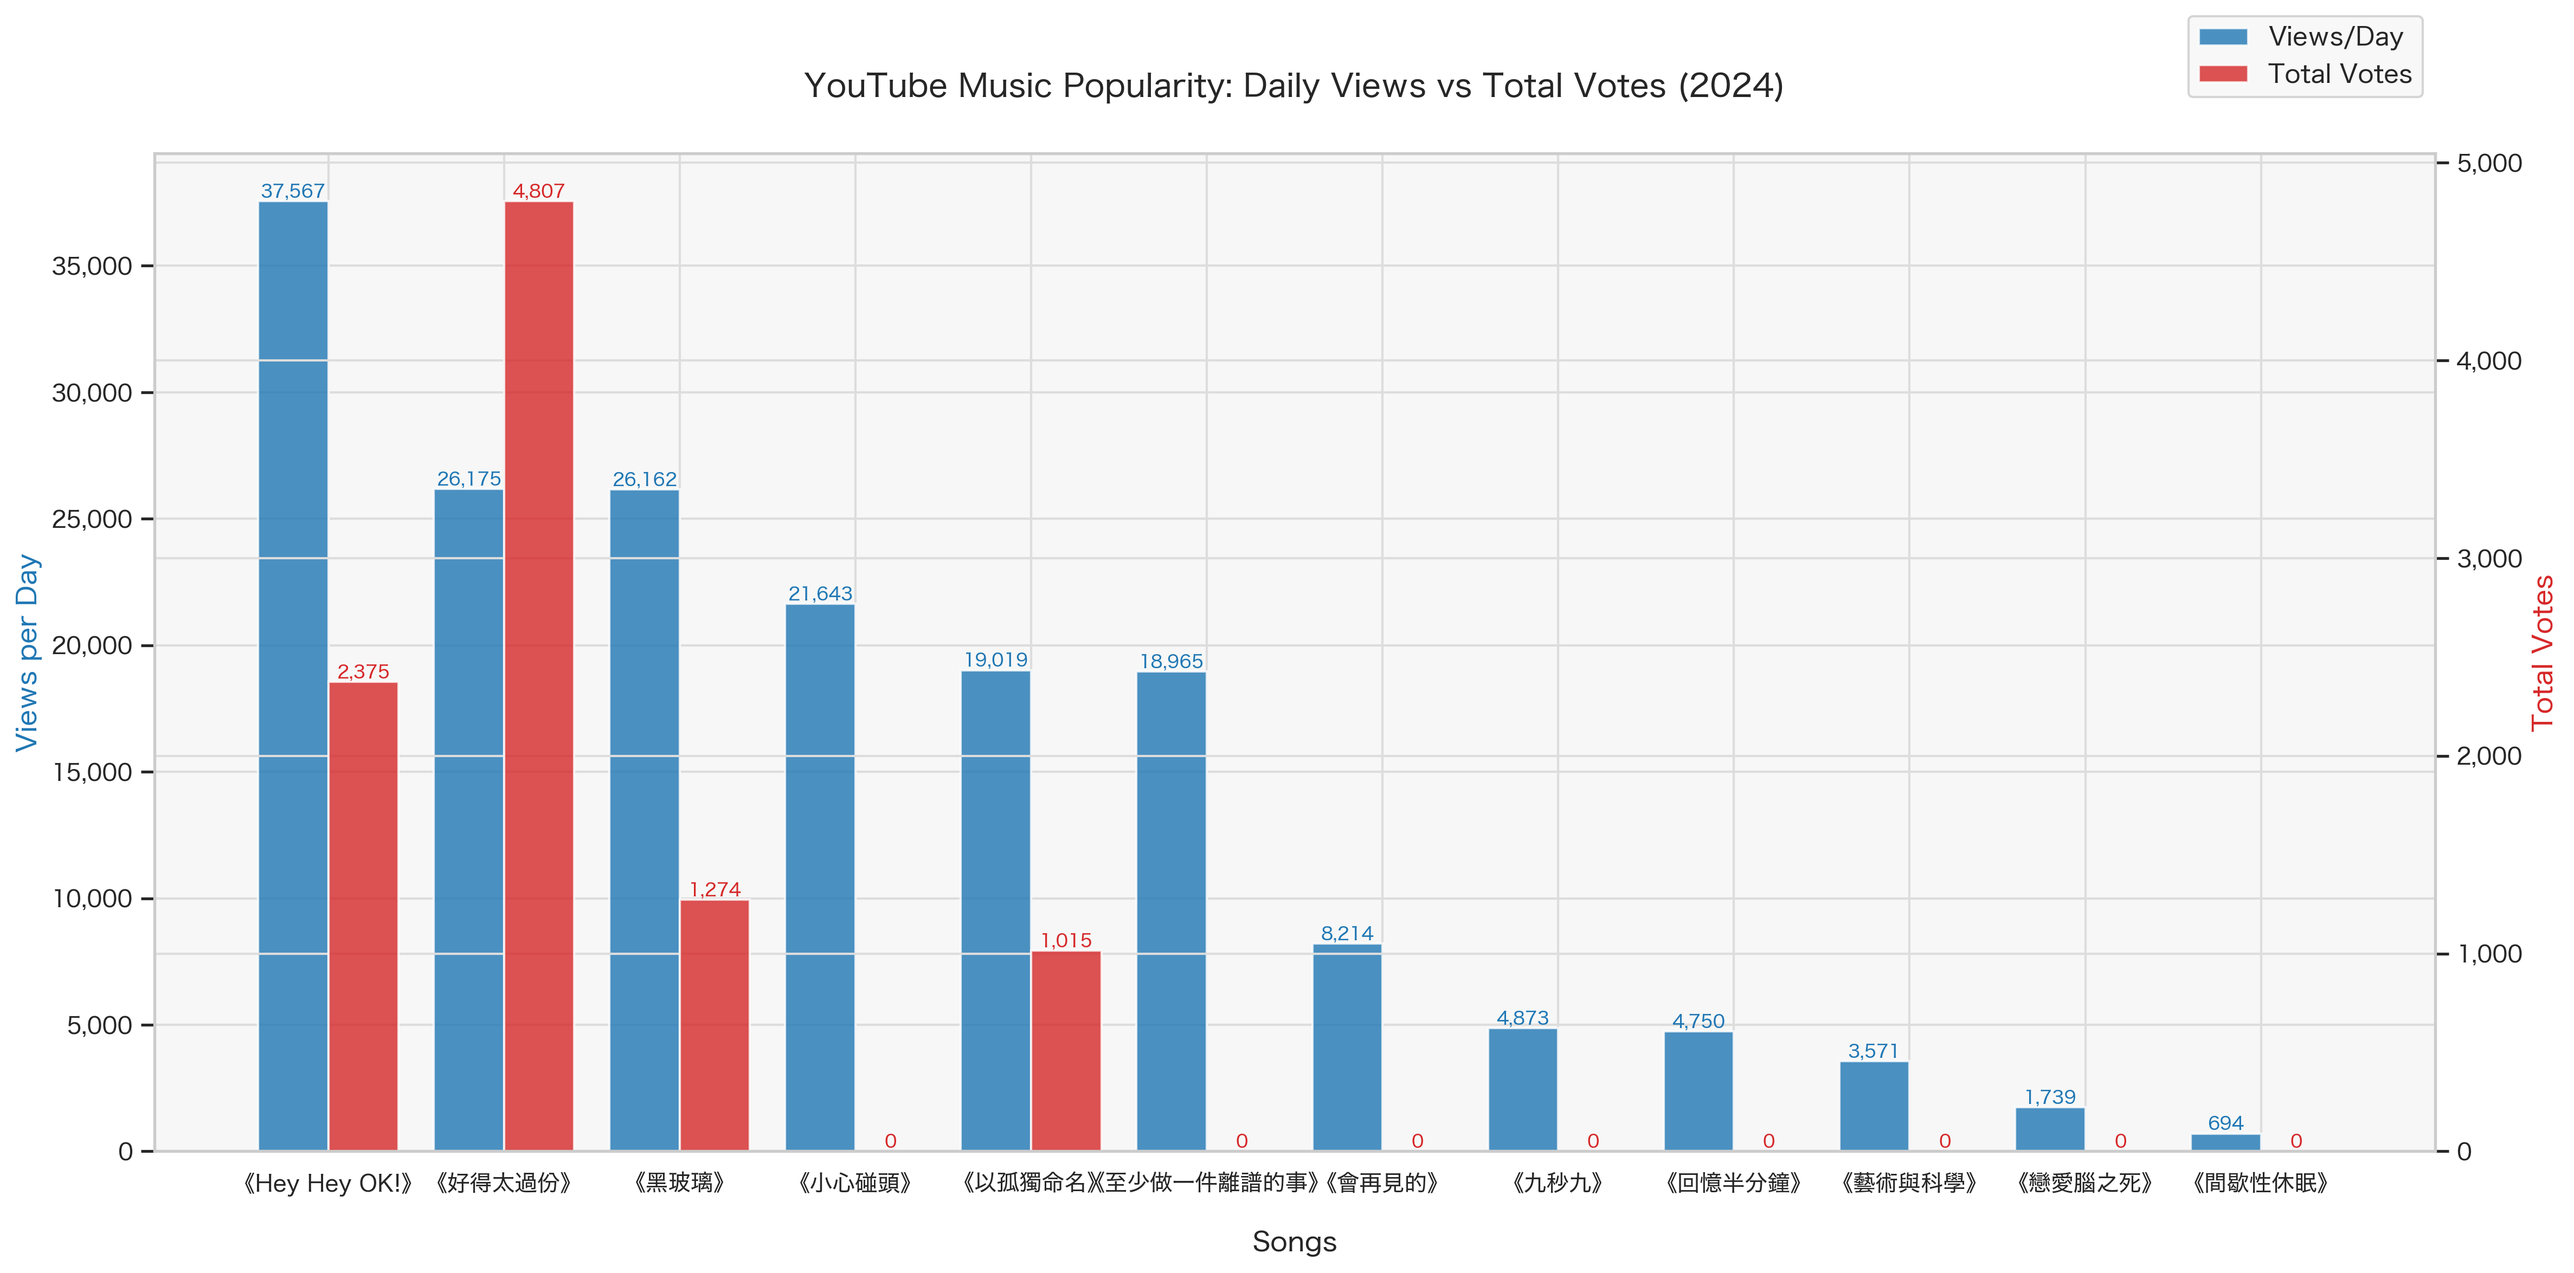
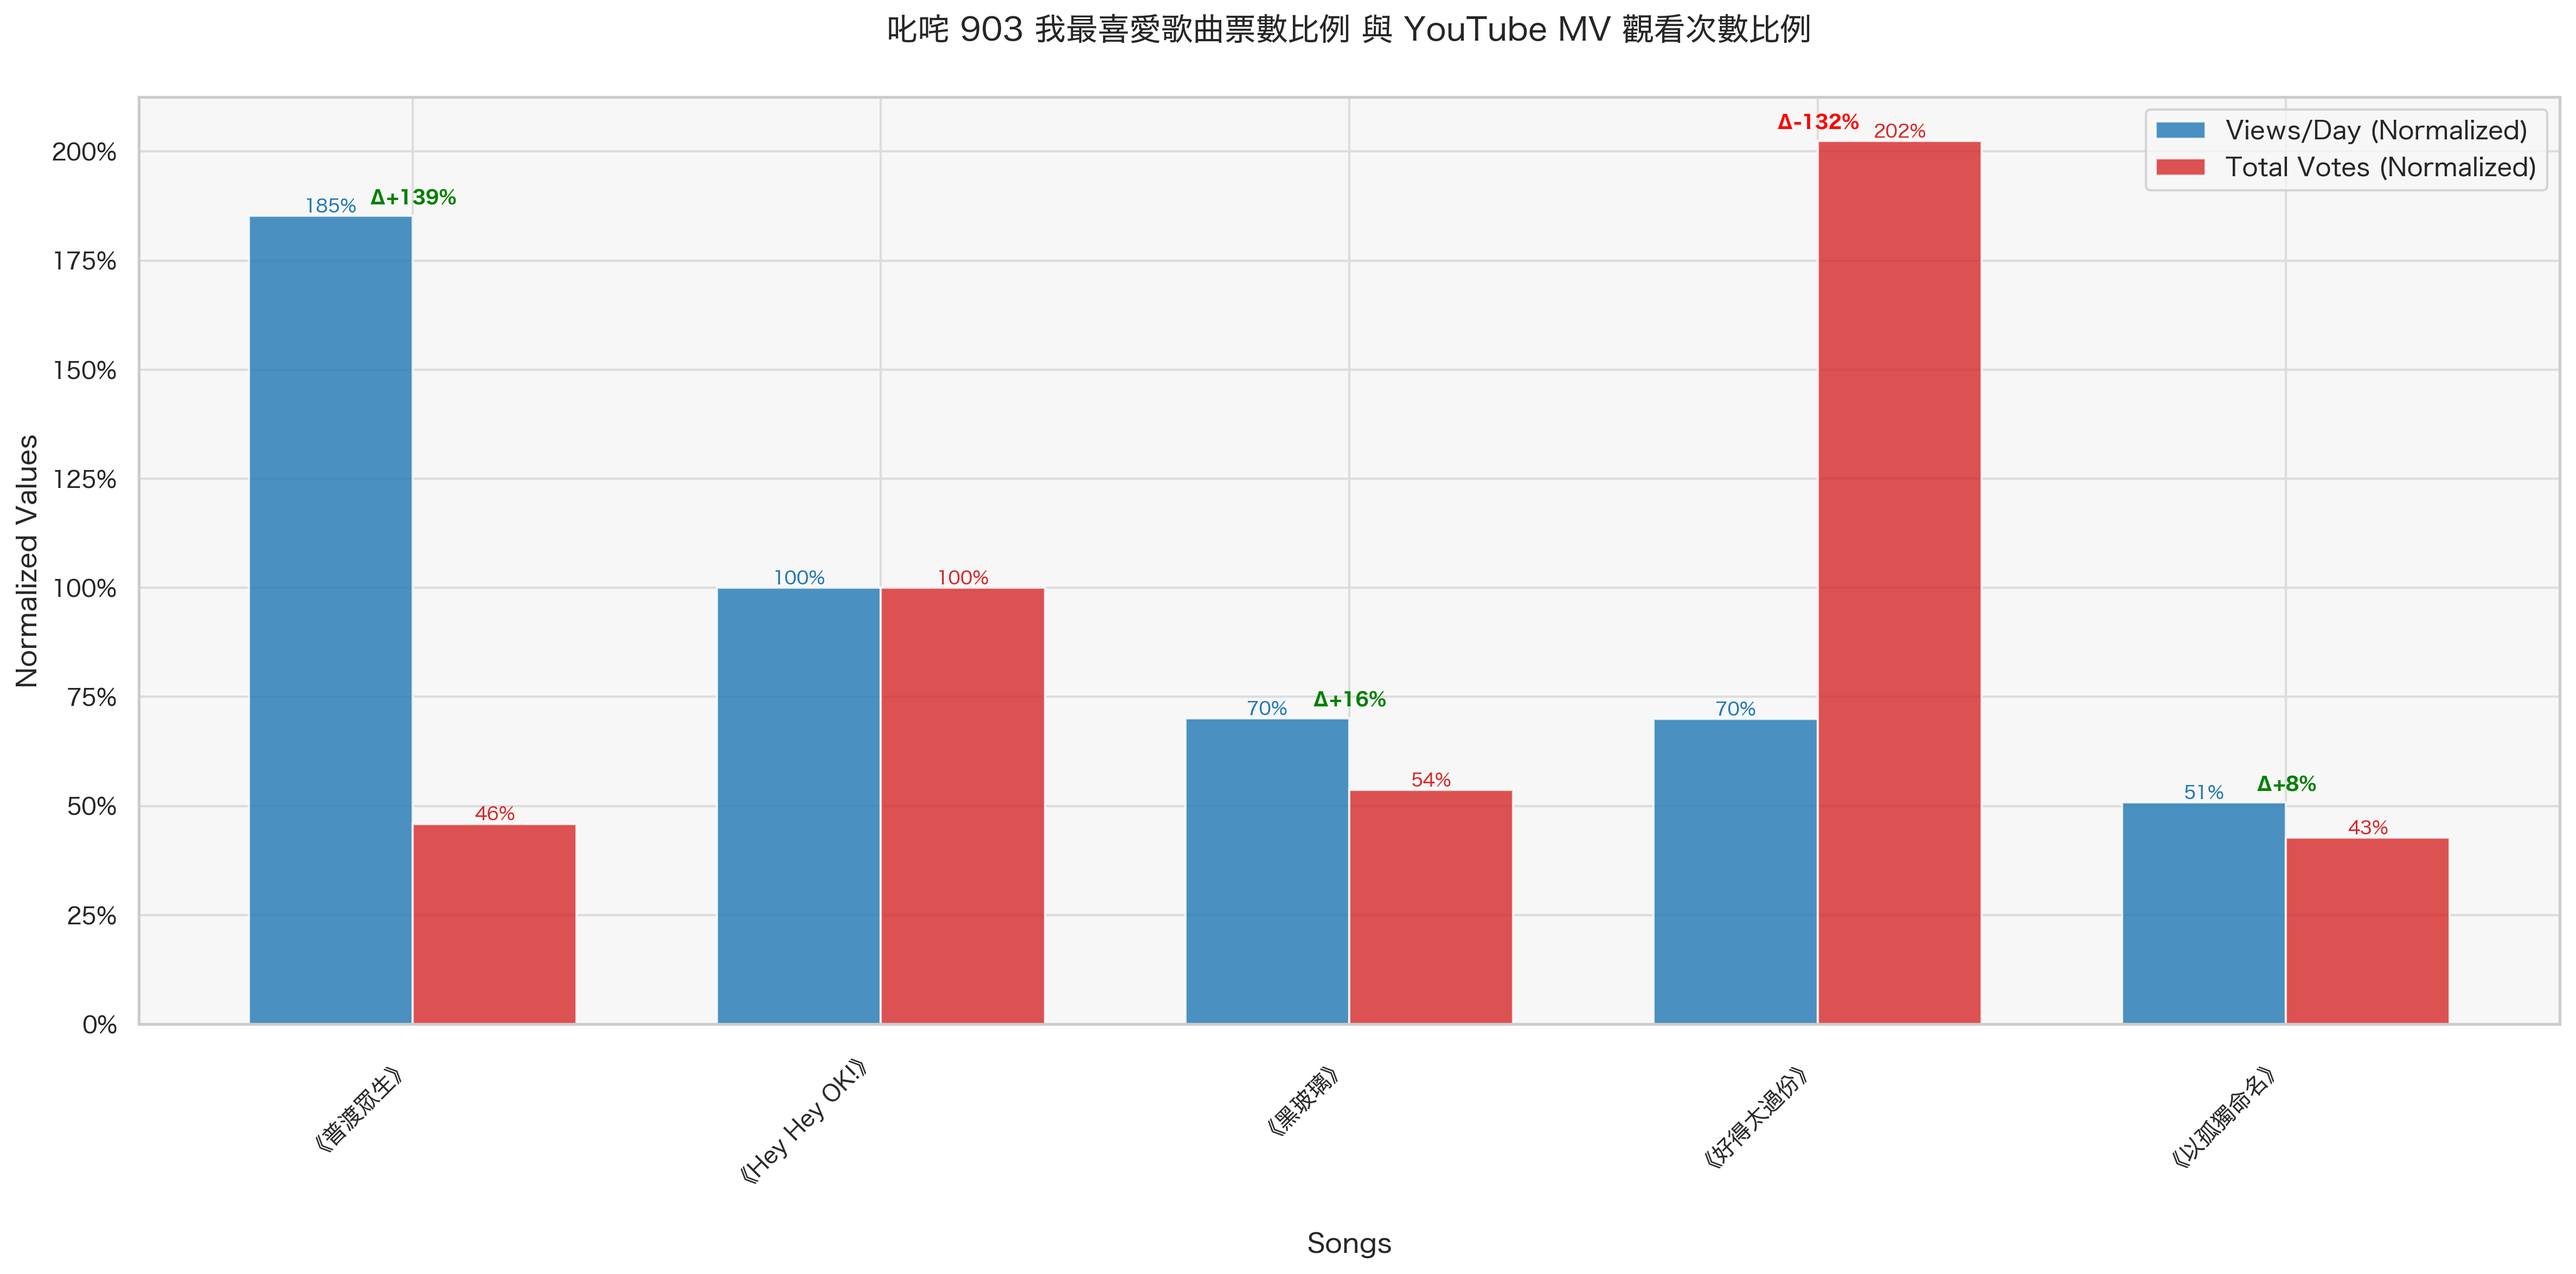
Update data.csv with new YouTube view counts and enhance plot.py for improved data visualization
- Updated `data.csv` to reflect the latest YouTube view counts for songs, including adjustments to total views and views per day.
- Enhanced `plot.py` to include data normalization, improved filtering for valid entries, and added logging for better traceability.
- Modified the plotting function to visualize normalized views and total votes, with additional annotations for differences in proportions.
- Updated the plot title to reflect the new context of the analysis.

diff --git a/plot.py b/plot.py
@@ -40,14 +40,45 @@ def validate_data(df: pd.DataFrame) -> pd.DataFrame:
     
     # Filter and clean data
     df = df[df['Year'] == 2024].copy()
-    df = df.dropna(subset=['view per day', 'Total'])
+    
+    # Only keep rows where both 'view per day' and 'Total' are non-null and greater than 0
+    df = df[
+        df['view per day'].notna() & 
+        df['Total'].notna() & 
+        (df['view per day'] > 0) & 
+        (df['Total'] > 0)
+    ]
+    
     df = df.sort_values('view per day', ascending=False)
+    
+    logger.info(f"Number of songs with complete data: {len(df)}")
+    logger.info("Songs included in analysis:")
+    logger.info(df['Title'].tolist())
+    
+    return df
+
+def normalize_data(df: pd.DataFrame) -> pd.DataFrame:
+    """Normalize the data to percentages relative to 'Hey Hey OK OK'."""
+    # Get reference values from 'Hey Hey OK OK'
+    reference_song = df[df['Title'] == '《Hey Hey OK!》'].iloc[0]
+    reference_views = reference_song['view per day']
+    reference_votes = reference_song['Total']
+    
+    logger.info(f"Reference views per day: {reference_views:,.0f}")
+    logger.info(f"Reference total votes: {reference_votes:,.0f}")
+    
+    # Normalize to percentages relative to the reference song
+    df['normalized_views'] = (df['view per day'] / reference_views) * 100
+    df['normalized_votes'] = (df['Total'] / reference_votes) * 100
+    
+    # Calculate difference between proportions
+    df['proportion_difference'] = df['normalized_views'] - df['normalized_votes']
     
     return df
 
 def create_dual_axis_plot(df: pd.DataFrame, output_path: Optional[str] = 'plot.png') -> None:
     """
-    Create an enhanced dual-axis plot comparing views per day and total votes.
+    Create a plot comparing normalized views per day and total votes.
     
     Args:
         df: DataFrame containing song data
@@ -56,63 +87,69 @@ def create_dual_axis_plot(df: pd.DataFrame, output_path: Optional[str] = 'plot.p
     try:
         # Validate and prepare data
         df = validate_data(df)
+        df = normalize_data(df)
         
-        # Create figure and axes
-        fig, ax1 = plt.subplots(figsize=(16, 8))
-        ax2 = ax1.twinx()
+        # Create figure
+        fig, ax = plt.subplots(figsize=(16, 8))
         
         # Set positions and width
         x = range(len(df))
-        width = 0.4
+        width = 0.35
         
-        # Plot views per day
-        views_bars = ax1.bar(
-            [i - width/2 for i in x], df['view per day'],
-            width, color=COLORS['views'], alpha=0.8, label='Views/Day'
+        # Plot normalized views per day and total votes
+        views_bars = ax.bar(
+            [i - width/2 for i in x], df['normalized_views'],
+            width, color=COLORS['views'], alpha=0.8, label='Views/Day (Normalized)'
         )
         
-        # Plot total votes
-        votes_bars = ax2.bar(
-            [i + width/2 for i in x], df['Total'],
-            width, color=COLORS['votes'], alpha=0.8, label='Total Votes'
+        votes_bars = ax.bar(
+            [i + width/2 for i in x], df['normalized_votes'],
+            width, color=COLORS['votes'], alpha=0.8, label='Total Votes (Normalized)'
         )
         
-        # Configure axes
-        ax1.set_xlabel('Songs', fontsize=12, labelpad=15)
-        ax1.set_ylabel('Views per Day', color=COLORS['views'], fontsize=12)
-        ax2.set_ylabel('Total Votes', color=COLORS['votes'], fontsize=12)
+        # Configure axis
+        ax.set_xlabel('Songs', fontsize=12, labelpad=15)
+        ax.set_ylabel('Normalized Values', fontsize=12)
         
-        # Format y-axes
-        for ax in [ax1, ax2]:
-            ax.yaxis.set_major_formatter(plt.FuncFormatter(lambda x, _: f'{x:,.0f}'))
-            ax.tick_params(axis='both', which='major', labelsize=10)
+        # Format y-axis to show percentages (without multiplying by 100)
+        ax.yaxis.set_major_formatter(plt.FuncFormatter(lambda x, _: f'{x:.0f}%'))
+        ax.tick_params(axis='both', which='major', labelsize=10)
         
         # Add value labels
         for bar in views_bars:
             height = bar.get_height()
-            ax1.text(bar.get_x() + bar.get_width()/2., height,
-                    f'{height:,.0f}', ha='center', va='bottom',
-                    fontsize=8, color=COLORS['views'])
+            ax.text(bar.get_x() + bar.get_width()/2., height,
+                   f'{height:.0f}%', ha='center', va='bottom',
+                   fontsize=8, color=COLORS['views'])
         
         for bar in votes_bars:
             height = bar.get_height()
-            ax2.text(bar.get_x() + bar.get_width()/2., height,
-                    f'{height:,.0f}', ha='center', va='bottom',
-                    fontsize=8, color=COLORS['votes'])
+            ax.text(bar.get_x() + bar.get_width()/2., height,
+                   f'{height:.0f}%', ha='center', va='bottom',
+                   fontsize=8, color=COLORS['votes'])
         
         # Configure x-axis
         plt.xticks(x, df['Title'], rotation=45, ha='right', fontsize=10)
         
-        # Add combined legend
-        lines = [views_bars, votes_bars]
-        labels = [l.get_label() for l in lines]
-        ax1.legend(lines, labels, loc='upper right', 
-                  bbox_to_anchor=(1, 1.15), fontsize=11)
+        # Add legend
+        ax.legend(loc='upper right', fontsize=11)
         
         # Add title and adjust layout
-        plt.title('YouTube Music Popularity: Daily Views vs Total Votes (2024)',
+        plt.title('叱咤 903 我最喜愛歌曲票數比例 與 YouTube MV 觀看次數比例',
                  pad=25, fontsize=14)
         plt.tight_layout()
+        
+        # Add difference labels between the bars
+        for i in range(len(df)):
+            diff = df['proportion_difference'].iloc[i]
+            x_pos = i
+            y_pos = max(df['normalized_views'].iloc[i], df['normalized_votes'].iloc[i])
+            color = 'green' if diff > 0 else 'red'
+            if abs(diff) > 5:  # Only show differences greater than 5%
+                ax.text(x_pos, y_pos + 2, 
+                       f'Δ{diff:+.0f}%', 
+                       ha='center', va='bottom',
+                       color=color, fontsize=8, fontweight='bold')
         
         # Save and show plot
         if output_path:
@@ -130,7 +167,10 @@ if __name__ == "__main__":
         # Read and process data
         df = pd.read_csv('data.csv', skipinitialspace=True)
         
+        df = df[df['Year'] == 2024]       
+        
         # Create and save plot
+        df = normalize_data(df)
         create_dual_axis_plot(df)
         
     except Exception as e:
